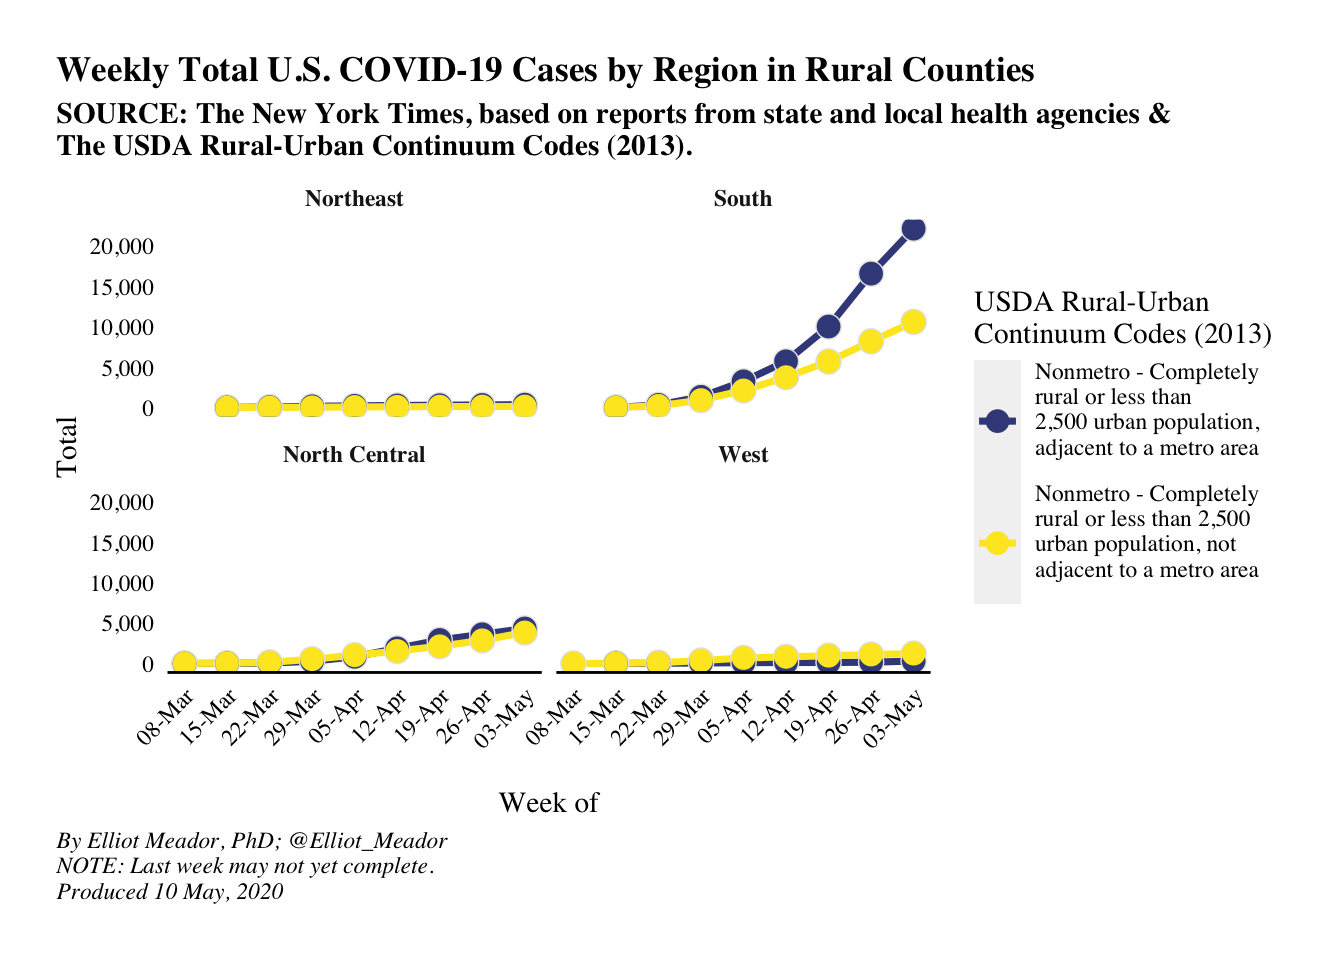
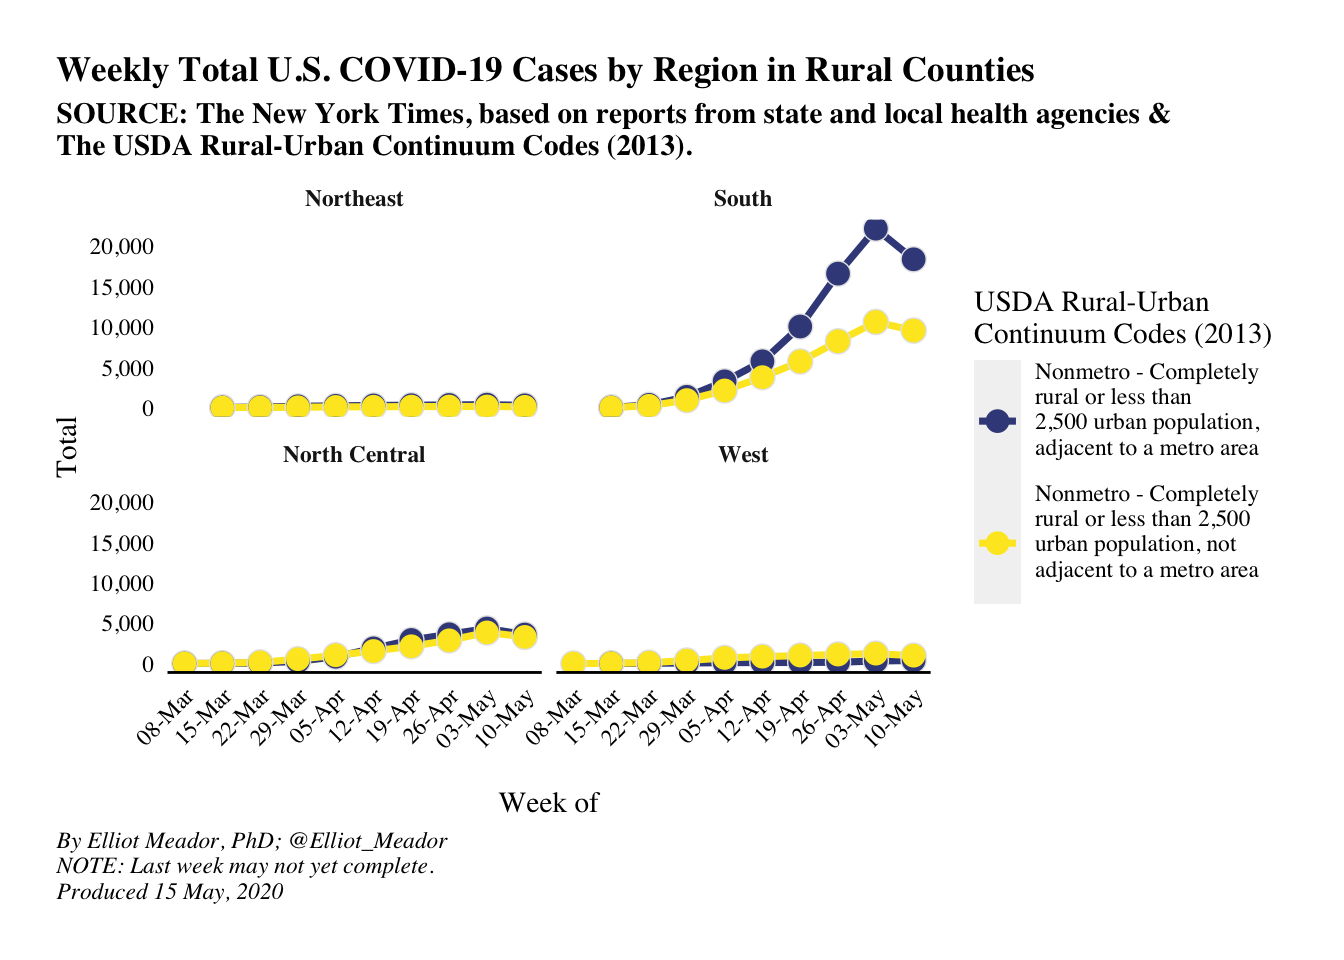
Updated data

diff --git a/public/post/covid-19-rural-deltanomics/index.html b/public/post/covid-19-rural-deltanomics/index.html
@@ -28,7 +28,7 @@
   
     
   
-  <meta name="description" content="Last updated on 2020-05-10 21:53:34  Introduction Now that we are square in the middle of the Covid-19 pandemic, I thought it might be beneficial to look at some statistics associated with the number of cases. We’ll differentiate our analysis by focusing on cases of Covid-19 in rural areas of the U.S. There are a couple of reasons for this: mainly, rural analytics is my speciality, so while I don’t know much about the virus, I do know some about rural societies and economies; we can easily find pertinent data on rural counties; and, we can utilise some cool built-in R functions to help us along the way.">
+  <meta name="description" content="Last updated on 2020-05-15 16:14:21  Introduction Now that we are square in the middle of the Covid-19 pandemic, I thought it might be beneficial to look at some statistics associated with the number of cases. We’ll differentiate our analysis by focusing on cases of Covid-19 in rural areas of the U.S. There are a couple of reasons for this: mainly, rural analytics is my speciality, so while I don’t know much about the virus, I do know some about rural societies and economies; we can easily find pertinent data on rural counties; and, we can utilise some cool built-in R functions to help us along the way.">
 
   
   <link rel="alternate" hreflang="en-us" href="/post/covid-19-rural-deltanomics/">
@@ -270,7 +270,7 @@
   <meta property="og:site_name" content="Deltanomics">
   <meta property="og:url" content="/post/covid-19-rural-deltanomics/">
   <meta property="og:title" content="Covid-19 and Rural Areas in the U.S. | Deltanomics">
-  <meta property="og:description" content="Last updated on 2020-05-10 21:53:34  Introduction Now that we are square in the middle of the Covid-19 pandemic, I thought it might be beneficial to look at some statistics associated with the number of cases. We’ll differentiate our analysis by focusing on cases of Covid-19 in rural areas of the U.S. There are a couple of reasons for this: mainly, rural analytics is my speciality, so while I don’t know much about the virus, I do know some about rural societies and economies; we can easily find pertinent data on rural counties; and, we can utilise some cool built-in R functions to help us along the way."><meta property="og:image" content="/images/icon_hu92a9dc9639b79cadf266306904fb01f6_516996_512x512_fill_lanczos_center_2.png">
+  <meta property="og:description" content="Last updated on 2020-05-15 16:14:21  Introduction Now that we are square in the middle of the Covid-19 pandemic, I thought it might be beneficial to look at some statistics associated with the number of cases. We’ll differentiate our analysis by focusing on cases of Covid-19 in rural areas of the U.S. There are a couple of reasons for this: mainly, rural analytics is my speciality, so while I don’t know much about the virus, I do know some about rural societies and economies; we can easily find pertinent data on rural counties; and, we can utilise some cool built-in R functions to help us along the way."><meta property="og:image" content="/images/icon_hu92a9dc9639b79cadf266306904fb01f6_516996_512x512_fill_lanczos_center_2.png">
   <meta property="twitter:image" content="/images/icon_hu92a9dc9639b79cadf266306904fb01f6_516996_512x512_fill_lanczos_center_2.png"><meta property="og:locale" content="en-us">
   
     
@@ -322,7 +322,7 @@
       "url": "img//"
     }
   },
-  "description": "Last updated on 2020-05-10 21:53:34  Introduction Now that we are square in the middle of the Covid-19 pandemic, I thought it might be beneficial to look at some statistics associated with the number of cases. We’ll differentiate our analysis by focusing on cases of Covid-19 in rural areas of the U.S. There are a couple of reasons for this: mainly, rural analytics is my speciality, so while I don’t know much about the virus, I do know some about rural societies and economies; we can easily find pertinent data on rural counties; and, we can utilise some cool built-in R functions to help us along the way."
+  "description": "Last updated on 2020-05-15 16:14:21  Introduction Now that we are square in the middle of the Covid-19 pandemic, I thought it might be beneficial to look at some statistics associated with the number of cases. We’ll differentiate our analysis by focusing on cases of Covid-19 in rural areas of the U.S. There are a couple of reasons for this: mainly, rural analytics is my speciality, so while I don’t know much about the virus, I do know some about rural societies and economies; we can easily find pertinent data on rural counties; and, we can utilise some cool built-in R functions to help us along the way."
 }
 </script>
 
@@ -706,8 +706,8 @@
       
 
 
-<div id="last-updated-on-2020-05-10-215334" class="section level4">
-<h4>Last updated on 2020-05-10 21:53:34</h4>
+<div id="last-updated-on-2020-05-15-161421" class="section level4">
+<h4>Last updated on 2020-05-15 16:14:21</h4>
 </div>
 <div id="introduction" class="section level1">
 <h1>Introduction</h1>

diff --git a/public/categories/r/index.html b/public/categories/r/index.html
@@ -603,7 +603,7 @@
     <h2><a href="/post/covid-19-rural-deltanomics/">Covid-19 and Rural Areas in the U.S.</a></h2>
     <div class="article-style">
       
-      Last updated on 2020-05-10 21:53:34  Introduction Now that we are square in the middle of the Covid-19 pandemic, I thought it might be beneficial to look at some statistics associated with the number of cases. We’ll differentiate our analysis by focusing on cases of Covid-19 in rural areas of the U.S. There are a couple of reasons for this: mainly, rural analytics is my speciality, so while I don’t know much about the virus, I do know some about rural societies and economies; we can easily find pertinent data on rural counties; and, we can utilise some cool built-in R functions to help us along the way.
+      Last updated on 2020-05-15 16:14:21  Introduction Now that we are square in the middle of the Covid-19 pandemic, I thought it might be beneficial to look at some statistics associated with the number of cases. We’ll differentiate our analysis by focusing on cases of Covid-19 in rural areas of the U.S. There are a couple of reasons for this: mainly, rural analytics is my speciality, so while I don’t know much about the virus, I do know some about rural societies and economies; we can easily find pertinent data on rural counties; and, we can utilise some cool built-in R functions to help us along the way.
       
     </div>
   </div>

diff --git a/public/tags/data/index.html b/public/tags/data/index.html
@@ -603,7 +603,7 @@
     <h2><a href="/post/covid-19-rural-deltanomics/">Covid-19 and Rural Areas in the U.S.</a></h2>
     <div class="article-style">
       
-      Last updated on 2020-05-10 21:53:34  Introduction Now that we are square in the middle of the Covid-19 pandemic, I thought it might be beneficial to look at some statistics associated with the number of cases. We’ll differentiate our analysis by focusing on cases of Covid-19 in rural areas of the U.S. There are a couple of reasons for this: mainly, rural analytics is my speciality, so while I don’t know much about the virus, I do know some about rural societies and economies; we can easily find pertinent data on rural counties; and, we can utilise some cool built-in R functions to help us along the way.
+      Last updated on 2020-05-15 16:14:21  Introduction Now that we are square in the middle of the Covid-19 pandemic, I thought it might be beneficial to look at some statistics associated with the number of cases. We’ll differentiate our analysis by focusing on cases of Covid-19 in rural areas of the U.S. There are a couple of reasons for this: mainly, rural analytics is my speciality, so while I don’t know much about the virus, I do know some about rural societies and economies; we can easily find pertinent data on rural counties; and, we can utilise some cool built-in R functions to help us along the way.
       
     </div>
   </div>

diff --git a/public/tags/dplyr/index.html b/public/tags/dplyr/index.html
@@ -603,7 +603,7 @@
     <h2><a href="/post/covid-19-rural-deltanomics/">Covid-19 and Rural Areas in the U.S.</a></h2>
     <div class="article-style">
       
-      Last updated on 2020-05-10 21:53:34  Introduction Now that we are square in the middle of the Covid-19 pandemic, I thought it might be beneficial to look at some statistics associated with the number of cases. We’ll differentiate our analysis by focusing on cases of Covid-19 in rural areas of the U.S. There are a couple of reasons for this: mainly, rural analytics is my speciality, so while I don’t know much about the virus, I do know some about rural societies and economies; we can easily find pertinent data on rural counties; and, we can utilise some cool built-in R functions to help us along the way.
+      Last updated on 2020-05-15 16:14:21  Introduction Now that we are square in the middle of the Covid-19 pandemic, I thought it might be beneficial to look at some statistics associated with the number of cases. We’ll differentiate our analysis by focusing on cases of Covid-19 in rural areas of the U.S. There are a couple of reasons for this: mainly, rural analytics is my speciality, so while I don’t know much about the virus, I do know some about rural societies and economies; we can easily find pertinent data on rural counties; and, we can utilise some cool built-in R functions to help us along the way.
       
     </div>
   </div>

diff --git a/public/tags/ggplot/index.html b/public/tags/ggplot/index.html
@@ -603,7 +603,7 @@
     <h2><a href="/post/covid-19-rural-deltanomics/">Covid-19 and Rural Areas in the U.S.</a></h2>
     <div class="article-style">
       
-      Last updated on 2020-05-10 21:53:34  Introduction Now that we are square in the middle of the Covid-19 pandemic, I thought it might be beneficial to look at some statistics associated with the number of cases. We’ll differentiate our analysis by focusing on cases of Covid-19 in rural areas of the U.S. There are a couple of reasons for this: mainly, rural analytics is my speciality, so while I don’t know much about the virus, I do know some about rural societies and economies; we can easily find pertinent data on rural counties; and, we can utilise some cool built-in R functions to help us along the way.
+      Last updated on 2020-05-15 16:14:21  Introduction Now that we are square in the middle of the Covid-19 pandemic, I thought it might be beneficial to look at some statistics associated with the number of cases. We’ll differentiate our analysis by focusing on cases of Covid-19 in rural areas of the U.S. There are a couple of reasons for this: mainly, rural analytics is my speciality, so while I don’t know much about the virus, I do know some about rural societies and economies; we can easily find pertinent data on rural counties; and, we can utilise some cool built-in R functions to help us along the way.
       
     </div>
   </div>

diff --git a/public/index.html b/public/index.html
@@ -929,7 +929,7 @@
 
     
     <div class="article-style">
-      Last updated on 2020-05-10 21:53:34  Introduction Now that we are square in the middle of the Covid-19 pandemic, I thought it might be …
+      Last updated on 2020-05-15 16:14:21  Introduction Now that we are square in the middle of the Covid-19 pandemic, I thought it might be …
     </div>
     
 

diff --git a/public/post/index.html b/public/post/index.html
@@ -626,7 +626,7 @@
 
     
     <div class="article-style">
-      Last updated on 2020-05-10 21:53:34  Introduction Now that we are square in the middle of the Covid-19 pandemic, I thought it might be …
+      Last updated on 2020-05-15 16:14:21  Introduction Now that we are square in the middle of the Covid-19 pandemic, I thought it might be …
     </div>
     
 

diff --git a/content/post/2020-04-26-covid-19-and-rural-areas-in-the-u-s.html b/content/post/2020-04-26-covid-19-and-rural-areas-in-the-u-s.html
@@ -25,8 +25,8 @@ editor_options:
 
 
 
-<div id="last-updated-on-2020-05-10-215334" class="section level4">
-<h4>Last updated on 2020-05-10 21:53:34</h4>
+<div id="last-updated-on-2020-05-15-161421" class="section level4">
+<h4>Last updated on 2020-05-15 16:14:21</h4>
 </div>
 <div id="introduction" class="section level1">
 <h1>Introduction</h1>
